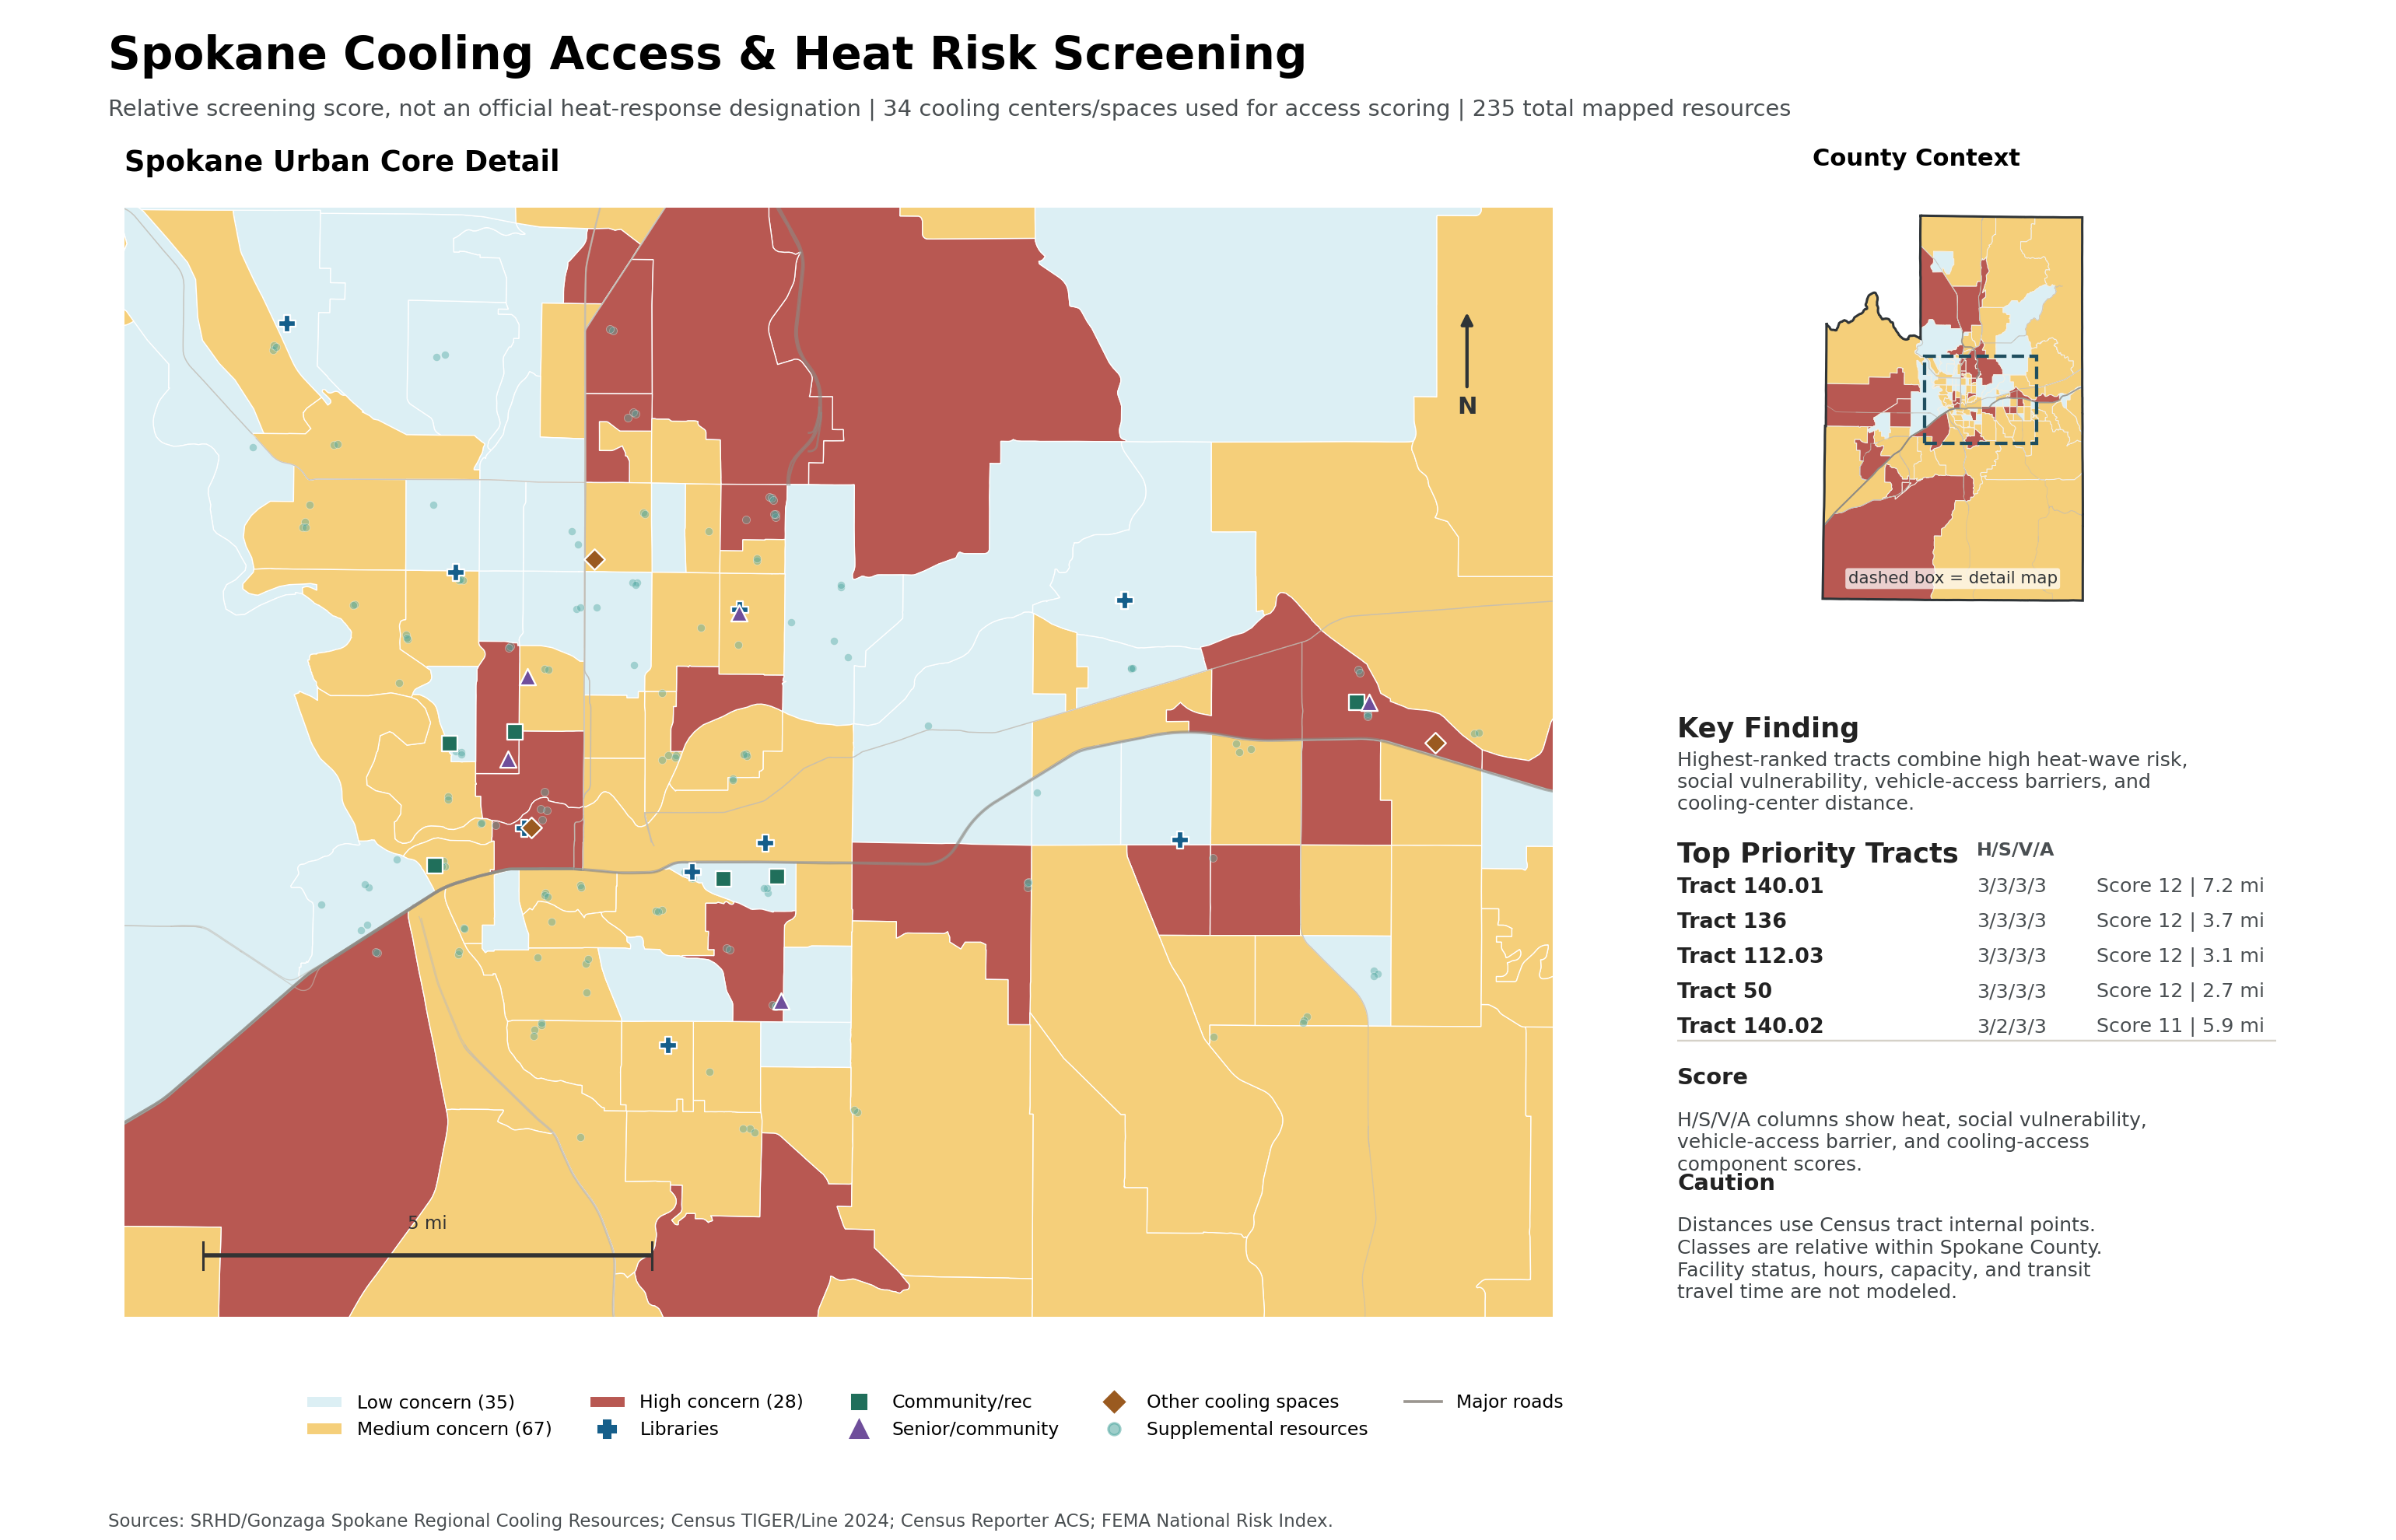
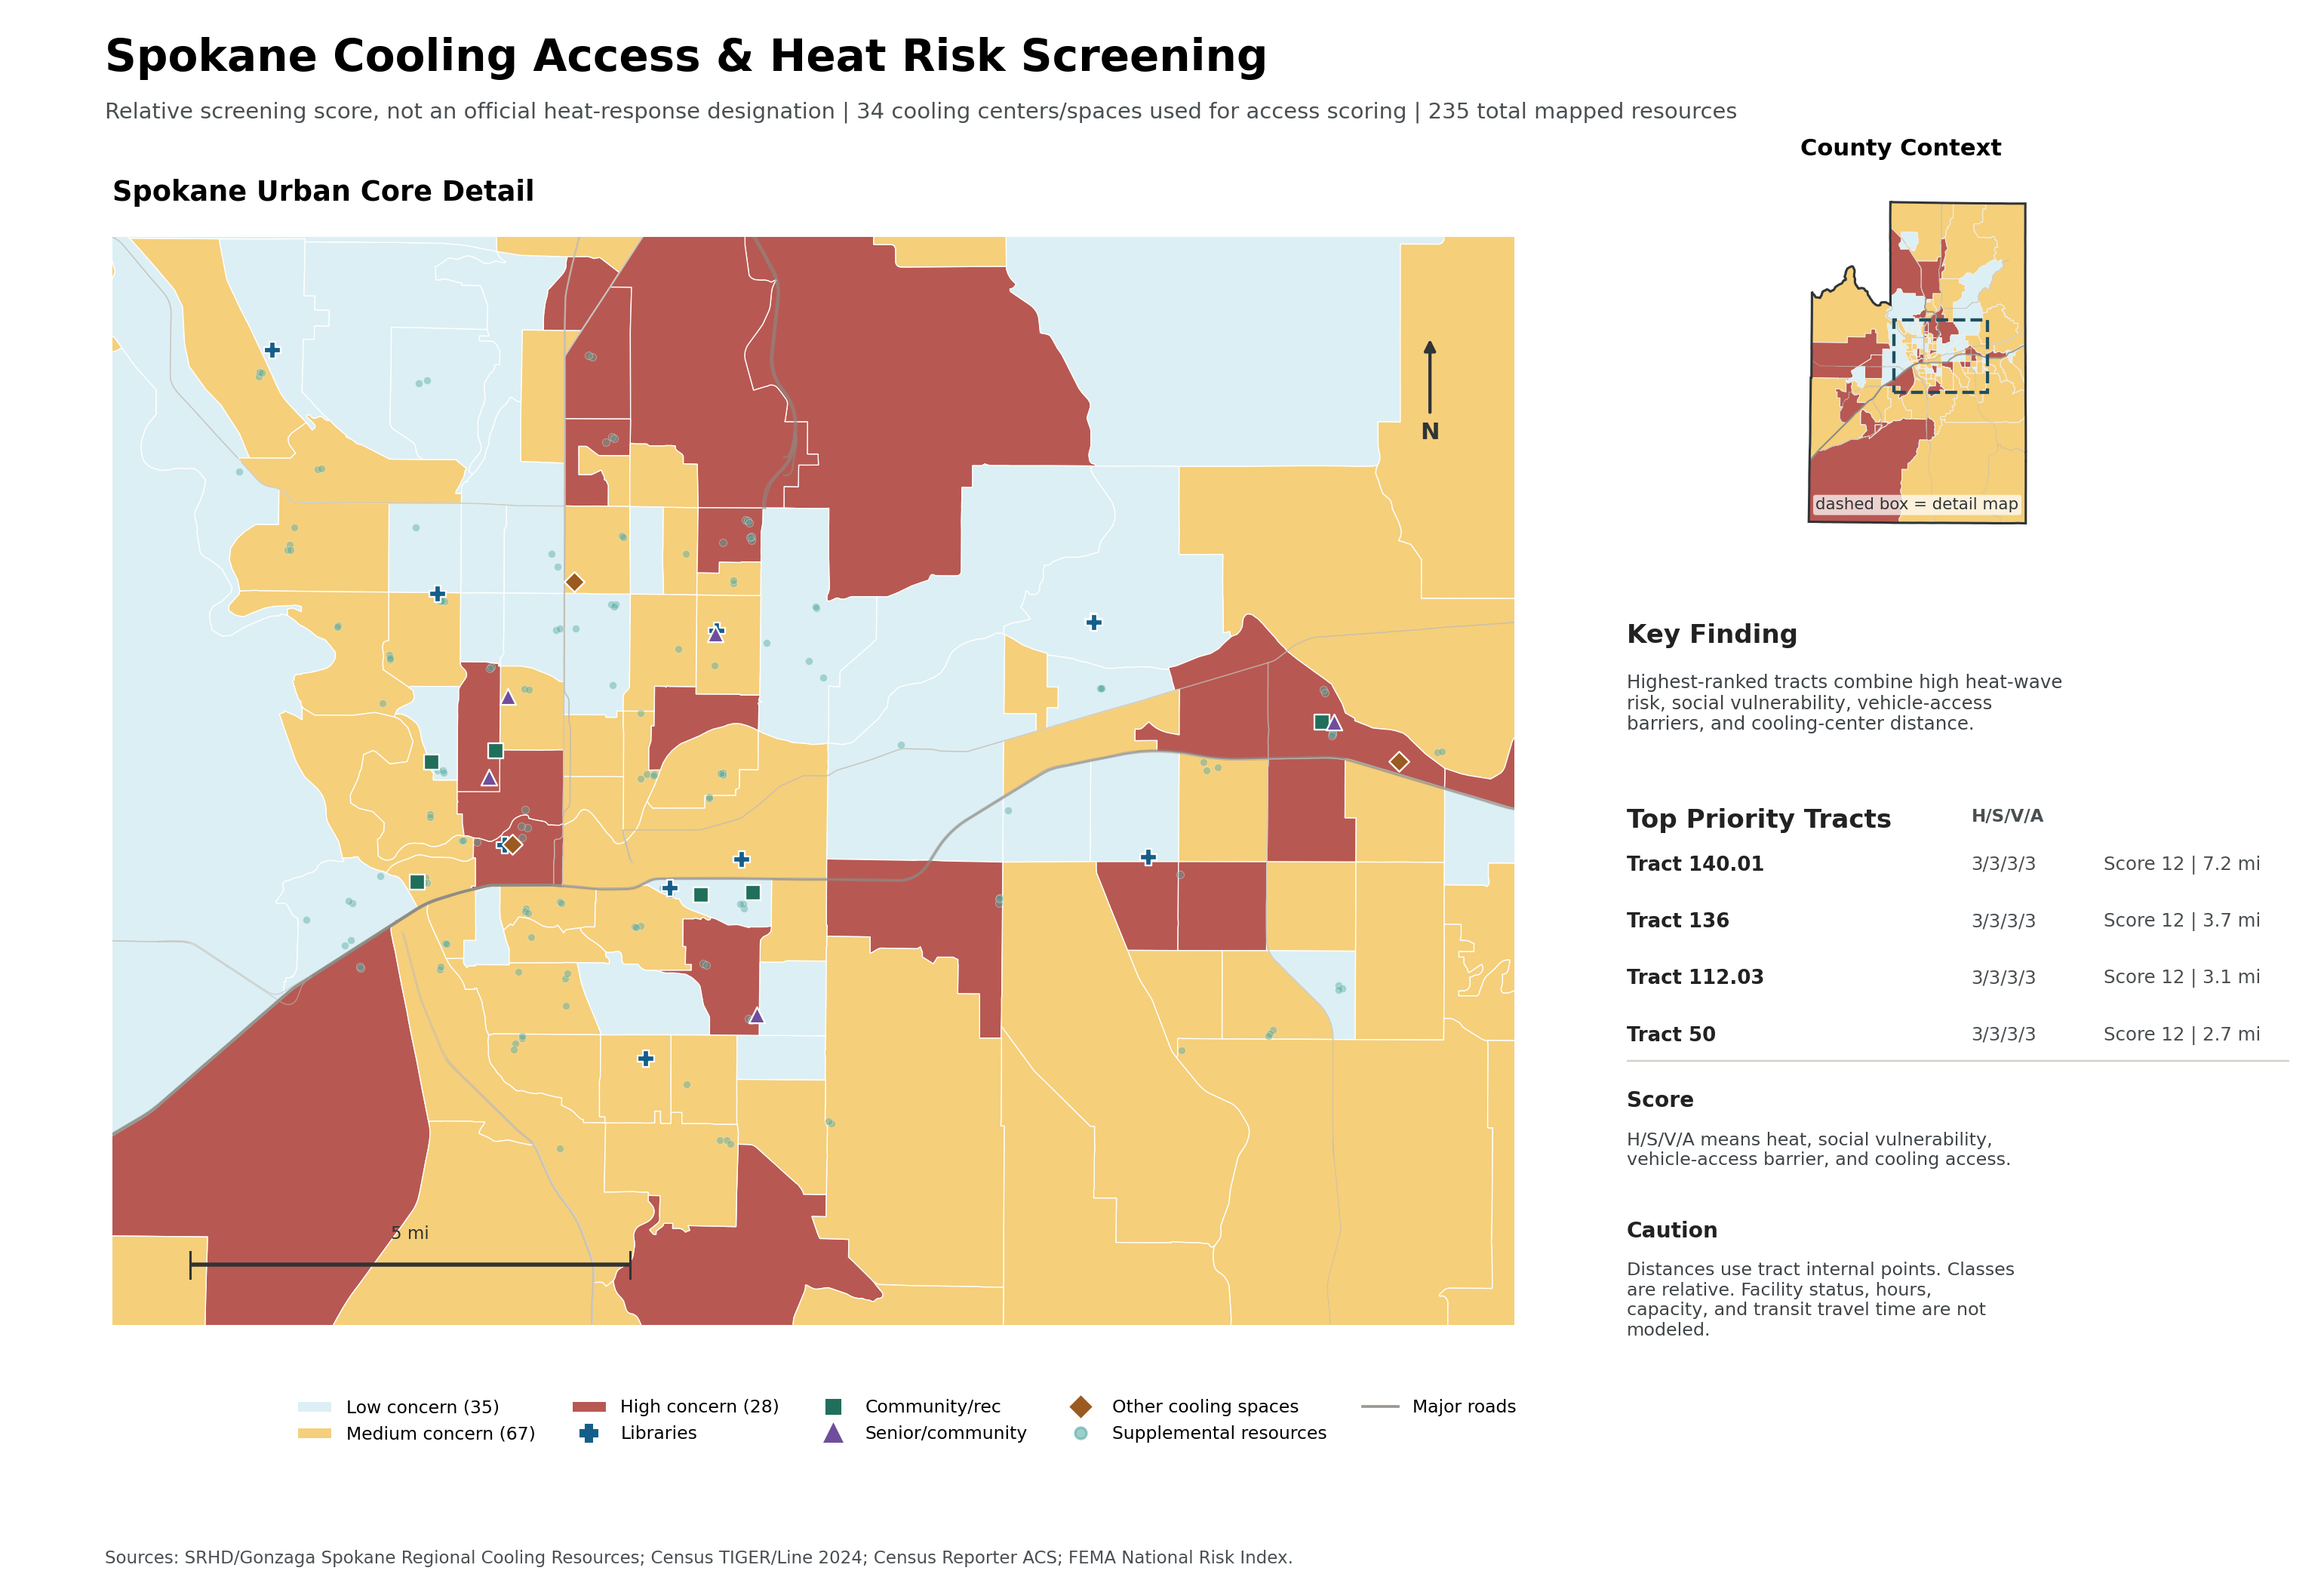
Improve map annotation spacing

diff --git a/scripts/build_analysis.py b/scripts/build_analysis.py
@@ -692,8 +692,8 @@ def draw_layers(
 
 
 def draw_callout_box(ax, title: str, body: str, y: float) -> None:
-    ax.text(0, y, title, fontsize=9.5, weight="bold", color="#222222", ha="left", va="top")
-    ax.text(0, y - 0.075, textwrap.fill(body, 48), fontsize=8.2, color="#3f4447", ha="left", va="top", linespacing=1.25)
+    ax.text(0, y, title, fontsize=9.2, weight="bold", color="#222222", ha="left", va="top")
+    ax.text(0, y - 0.052, textwrap.fill(body, 44), fontsize=7.8, color="#3f4447", ha="left", va="top", linespacing=1.2)
 
 
 def draw_map(
@@ -706,10 +706,10 @@ def draw_map(
 ) -> None:
     colors = {"Low": "#dceff4", "Medium": "#f5cf7a", "High": "#b85852"}
     urban_extent = (-117.52, 47.58, -117.18, 47.76)
-    fig = plt.figure(figsize=(14, 9), facecolor="white")
-    main_ax = fig.add_axes([0.045, 0.145, 0.61, 0.72])
-    county_ax = fig.add_axes([0.70, 0.60, 0.23, 0.27])
-    info_ax = fig.add_axes([0.70, 0.155, 0.25, 0.38])
+    fig = plt.figure(figsize=(14, 9.5), facecolor="white")
+    main_ax = fig.add_axes([0.045, 0.16, 0.61, 0.69])
+    county_ax = fig.add_axes([0.735, 0.66, 0.18, 0.22])
+    info_ax = fig.add_axes([0.70, 0.105, 0.285, 0.50])
     info_ax.axis("off")
 
     draw_layers(main_ax, tracts_fc, county_fc, roads_fc, all_resources_fc, detail=True, labels=False)
@@ -767,63 +767,63 @@ def draw_map(
     fig.legend(
         handles=legend_items,
         loc="lower center",
-        bbox_to_anchor=(0.39, 0.055),
+        bbox_to_anchor=(0.39, 0.075),
         ncol=5,
         frameon=False,
         fontsize=7.7,
     )
 
-    top = summary.head(5).copy()
-    info_ax.text(0, 1.0, "Key Finding", fontsize=11.5, weight="bold", color="#222222", ha="left", va="top")
+    top = summary.head(4).copy()
+    info_ax.text(0, 1.0, "Key Finding", fontsize=11.2, weight="bold", color="#222222", ha="left", va="top")
     info_ax.text(
         0,
-        0.94,
+        0.935,
         textwrap.fill(
             "Highest-ranked tracts combine high heat-wave risk, social vulnerability, vehicle-access barriers, and cooling-center distance.",
-            50,
+            46,
         ),
-        fontsize=8.3,
+        fontsize=8.0,
         color="#3f4447",
         ha="left",
         va="top",
-        linespacing=1.22,
+        linespacing=1.18,
     )
-    info_ax.text(0, 0.785, "Top Priority Tracts", fontsize=11.5, weight="bold", color="#222222", ha="left", va="top")
-    info_ax.text(0.50, 0.785, "H/S/V/A", fontsize=7.8, weight="bold", color="#4a4f52", ha="left", va="top")
-    y = 0.725
+    info_ax.text(0, 0.765, "Top Priority Tracts", fontsize=11.2, weight="bold", color="#222222", ha="left", va="top")
+    info_ax.text(0.52, 0.765, "H/S/V/A", fontsize=7.5, weight="bold", color="#4a4f52", ha="left", va="top")
+    y = 0.705
     for _, row in top.iterrows():
         tract = row["NAME"].replace("Census Tract ", "").replace(", Spokane, WA", "")
-        info_ax.text(0, y, f"Tract {tract}", fontsize=8.8, weight="bold", ha="left", va="top", color="#222222")
+        info_ax.text(0, y, f"Tract {tract}", fontsize=8.5, weight="bold", ha="left", va="top", color="#222222")
         components = (
             f'{int(row["HEAT_CONCERN_SCORE"])}/'
             f'{int(row["SOVI_CONCERN_SCORE"])}/'
             f'{int(row["TRANSPORT_BARRIER_SCORE"])}/'
             f'{int(row["COOLING_ACCESS_SCORE"])}'
         )
-        info_ax.text(0.50, y, components, fontsize=8.3, ha="left", va="top", color="#4a4f52")
+        info_ax.text(0.52, y, components, fontsize=8.0, ha="left", va="top", color="#4a4f52")
         info_ax.text(
-            0.70,
+            0.72,
             y,
             f'Score {int(row["FINAL_CONCERN_SCORE"])} | {row["NEAREST_COOLING_MI"]:.1f} mi',
-            fontsize=8.3,
+            fontsize=8.0,
             ha="left",
             va="top",
             color="#4a4f52",
         )
-        y -= 0.06
+        y -= 0.072
 
-    info_ax.plot([0, 1], [y + 0.02, y + 0.02], color="#d5d1c8", linewidth=0.8)
+    info_ax.plot([0, 1], [y + 0.028, y + 0.028], color="#d5d1c8", linewidth=0.8)
     draw_callout_box(
         info_ax,
         "Score",
-        "H/S/V/A columns show heat, social vulnerability, vehicle-access barrier, and cooling-access component scores.",
-        y - 0.025,
+        "H/S/V/A means heat, social vulnerability, vehicle-access barrier, and cooling access.",
+        y - 0.01,
     )
     draw_callout_box(
         info_ax,
         "Caution",
-        "Distances use Census tract internal points. Classes are relative within Spokane County. Facility status, hours, capacity, and transit travel time are not modeled.",
-        y - 0.205,
+        "Distances use tract internal points. Classes are relative. Facility status, hours, capacity, and transit travel time are not modeled.",
+        y - 0.175,
     )
     info_ax.set_xlim(0, 1)
     info_ax.set_ylim(0, 1)